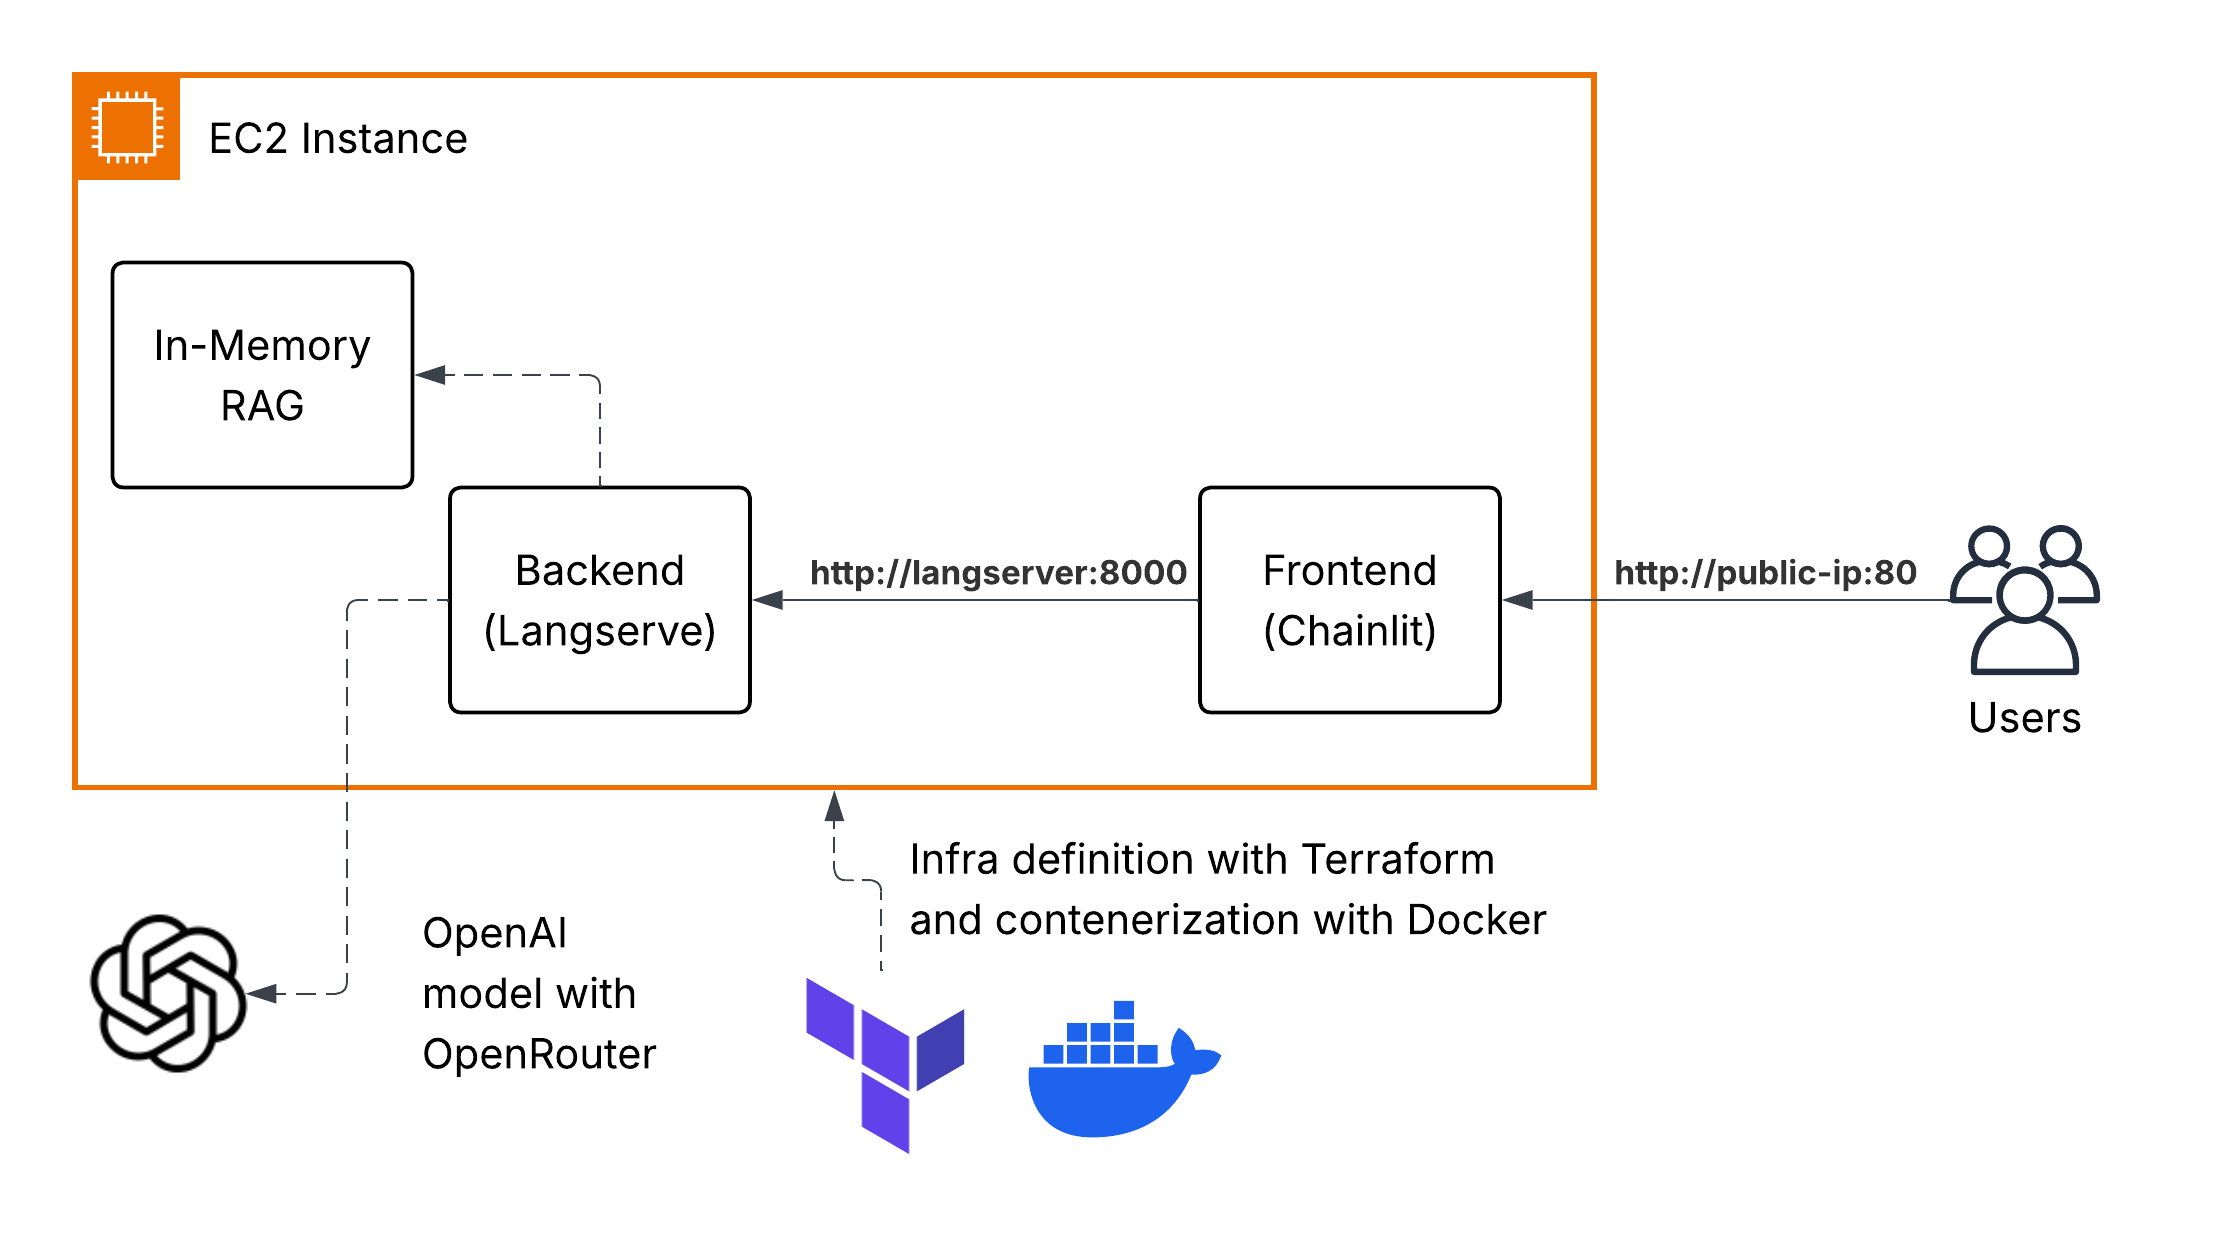
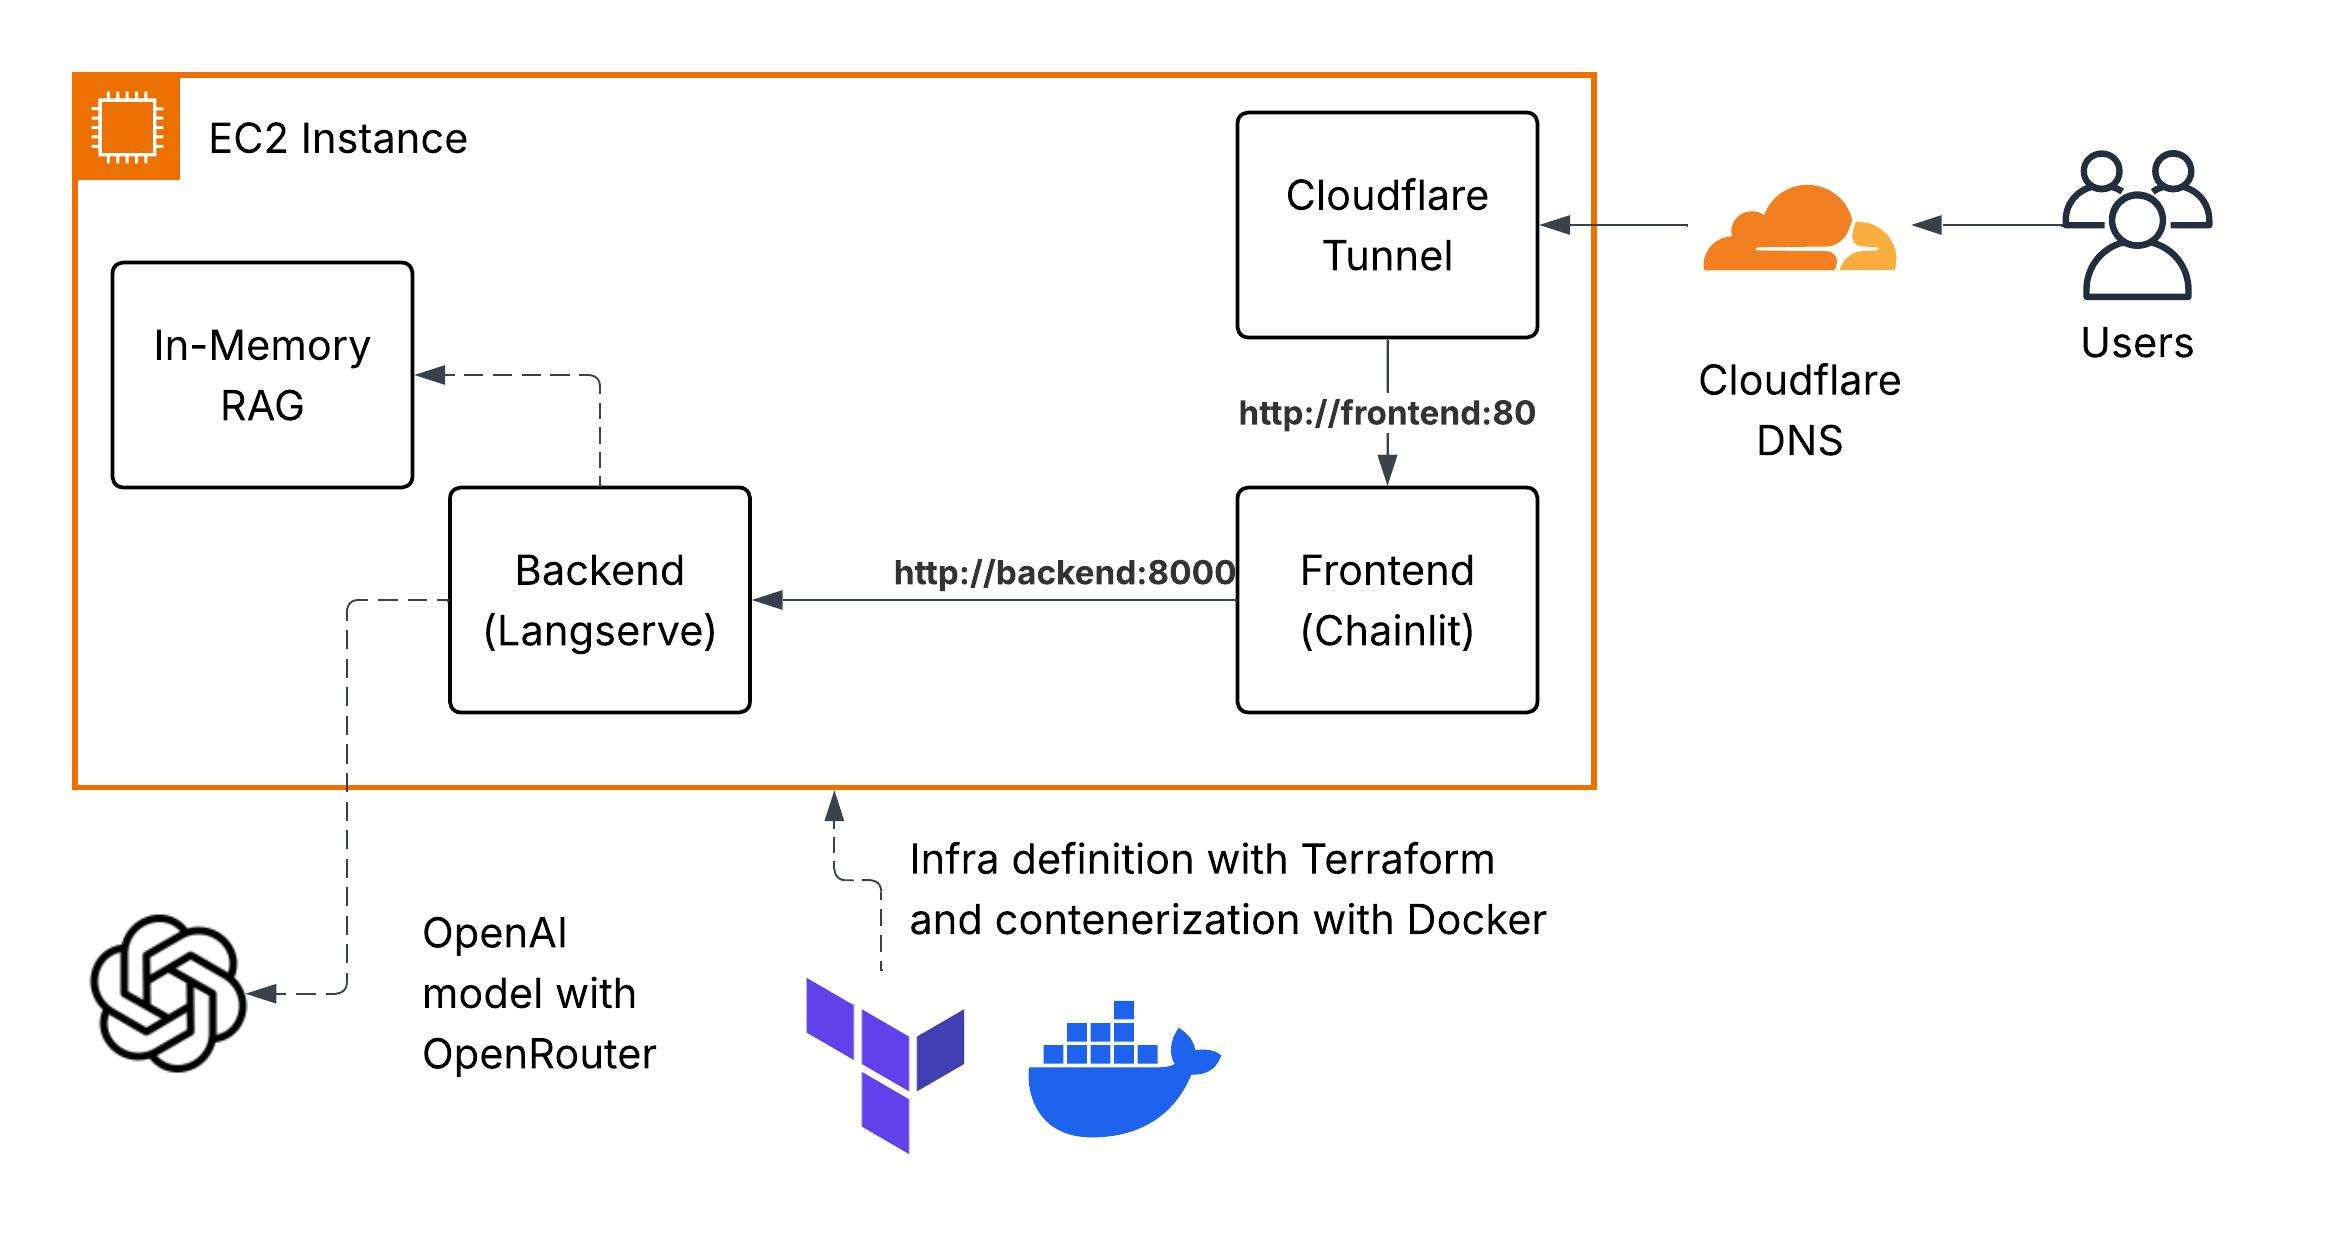
Add Cloudflare Tunnel for secure connection

diff --git a/doc/project-overview.md b/doc/project-overview.md
@@ -1,5 +1,46 @@
-I used AI for the frontend, but I tried to avoid it for the backend. I've never used langchain before so
+# Project Overview
+
+TODO: Añadir cloudflare
+
+## 
 
 ## Architecture Diagram
 
 <img src="diagram.png" alt="Project architecture diagram" width="500" />
+
+* The infrastructure is deployed using terraform. This program will create an EC2 instance, where it will install docker, pull the repository, and run the application via docker compose.
+* The docker compose will run three containers:
+    * The backend container that will run the langchain application with its own RAG.
+    * The frontend container that will run the chainlit application, added as an extra for a nice UI.
+    * The cloudflare-tunnel container, added as an extra that will provide a secure connection between the users and the application.
+
+## How to deploy
+
+This project requires terraform to be installed. It also requires AWS credentials, an OpenRouter API key and a Cloudflare token.
+
+1. Install terraform
+2. Create a `terraform.tfvars` file inside the infra folder with the following keys (based on `terraform.tfvars.example`):
+
+```
+aws_region              = "us-east-1" # or any other region
+aws_access_key_id       = ""
+aws_secret_access_key   = ""
+openrouter_api_key      = ""
+cloudflare_tunnel_token = ""
+```
+
+3. Run `make init` and then `make plan` to see what will be deployed
+4. Run `make apply` to deploy the infrastructure
+5. Once the infrastructure is deployed, terraform will output the EC2 Public IP address, which you can use to access the application (http://<ec2_public_ip>:80).
+6. You can remove the infrastructure by running `make destroy`.
+
+## What is not included on this project
+
+* CI/CD: Right now, terraform is used to deploy the infrastructure and the application. A better aproach would be to use, 
+for example, github actions to deploy the application when a new commit is pushed to the main branch.
+* Testing: This project doesn't include any tests. It runs by pure will power.
+* Logging & Monitoring
+* Security
+* Scaling
+* Load Balancing
+* etc.
